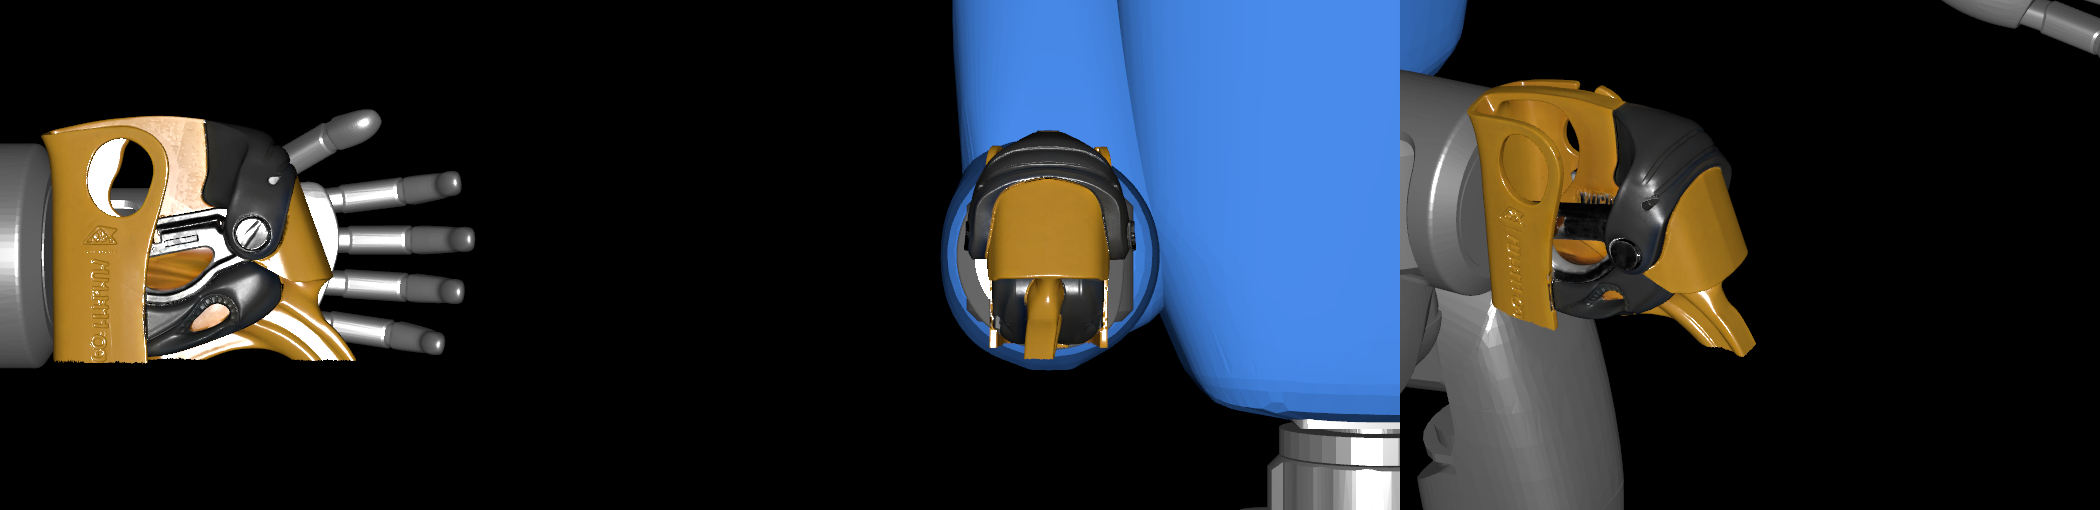
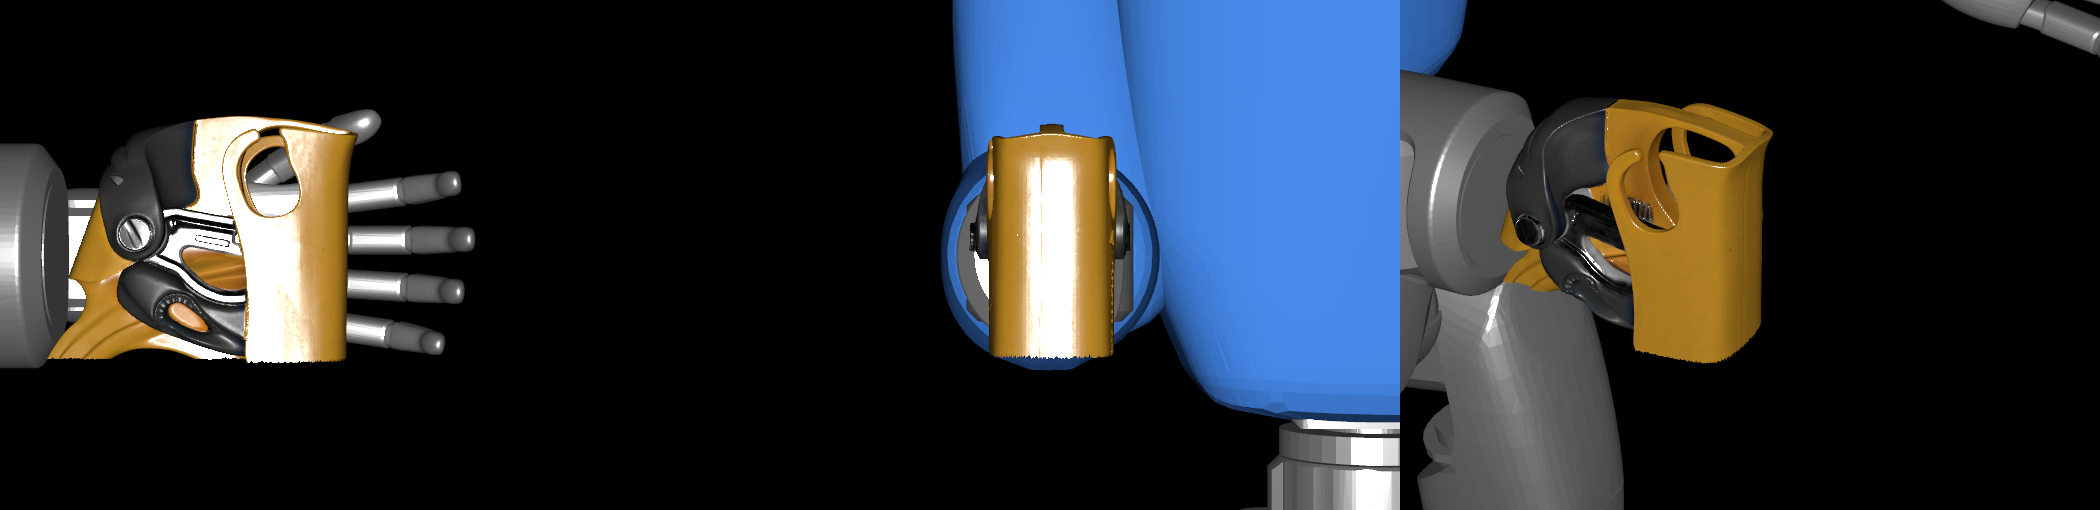
Ascender yaw 180 deg back; README note on wrist offset for the policy
Claude-Session: https://claude.ai/code/session_01Kj5So1s4xrTsHeTeJU72py

Changed region(s): [[0.0, 0.2059, 0.1857, 0.7353], [0.681, 0.1471, 0.8667, 0.7059], [0.4333, 0.2353, 0.5571, 0.7059]]

diff --git a/assets/robots/g1/attach_tool.py b/assets/robots/g1/attach_tool.py
@@ -16,10 +16,10 @@ LINK = "/G1/right_wrist_yaw_link"
 # Mount: ascender UPRIGHT like on a fixed rope - cam head centred on the wrist joint, handle hanging below
 # (wrist frame: X = forearm, Z = up when the arm is horizontal).
 # Basis mapping (Gf is row-vector convention: rows = images of tool X, Y, Z in the wrist frame):
-#   tool X (width)        -> wrist -X   (yawed 180 deg about Z)
-#   tool Y (thickness)    -> wrist -Y   (cam plate faces the other side)
-#   tool Z (handle->head) -> wrist +Z   (head up, handle down)
-_R = Gf.Matrix3d(-1, 0, 0,   0, -1, 0,   0, 0, 1)
+#   tool X (width)        -> wrist -X
+#   tool Y (thickness)    -> wrist -Y   (cam plate faces sideways)
+#   tool Z (handle->head) -> wrist +Z   (head up)
+_R = Gf.Matrix3d(-1, 0, 0,   0, -1, 0,   0, 0, 1)   # = 180 deg yaw about wrist Z
 HEAD_Z = (0.12, 0.195)                       # cam head span along the tool axis
 TOOL_POS = Gf.Vec3d(0.08, 0.0, -(HEAD_Z[0] + HEAD_Z[1]) / 2)   # head on the joint, 2 cm clear of the wrist mesh (ends x=0.047)
 _qd = _R.ExtractRotation().GetQuat(); TOOL_ROT = Gf.Quatf(_qd.GetReal(), *_qd.GetImaginary())

diff --git a/assets/robots/g1/README.md b/assets/robots/g1/README.md
@@ -56,3 +56,10 @@ G1_HIMALAYA_CFG = ArticulationCfg(
 `right_wrist_yaw_link`, +0.165 kg folded into the link mass, so the articulation is unchanged (29 DoF)
 and the Isaac Lab cfg works as-is. The end-effector frame is `/G1/right_wrist_yaw_link/tool_ascender` (origin = tool base, +Z = along tool to the cam head).
 Tune `TOOL_POS` / `TOOL_ROT` in `attach_tool.py`. Scene: `himalaya_scene.py --robot g1_unitree_ascender`.
+
+### Policy note — wrist offset
+The ascender is fixed to `right_wrist_yaw_link`, so its pose is entirely set by the 3 wrist joints
+(`right_wrist_roll/pitch/yaw_joint`). Any policy or IK that targeted the rubber hand must be re-targeted to the
+tool frame `/G1/right_wrist_yaw_link/tool_ascender` (+Z = up through the cam head, rope runs along it):
+the "hand" now points +Z of the wrist instead of +X, i.e. roughly a **-90° wrist-pitch offset** vs. the stock hand,
+plus the +0.11 kg on the link. Add that offset to the wrist default / target joint positions in the env cfg.
